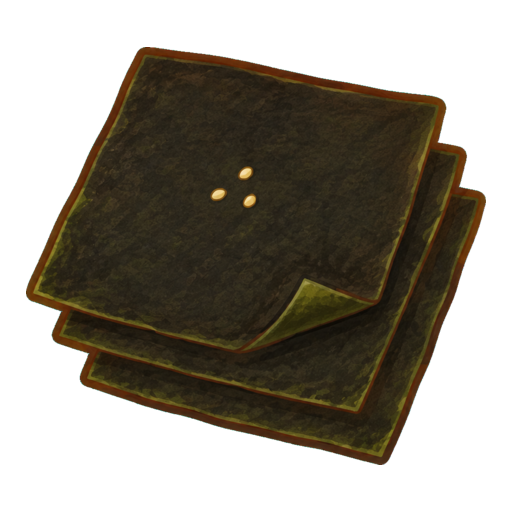
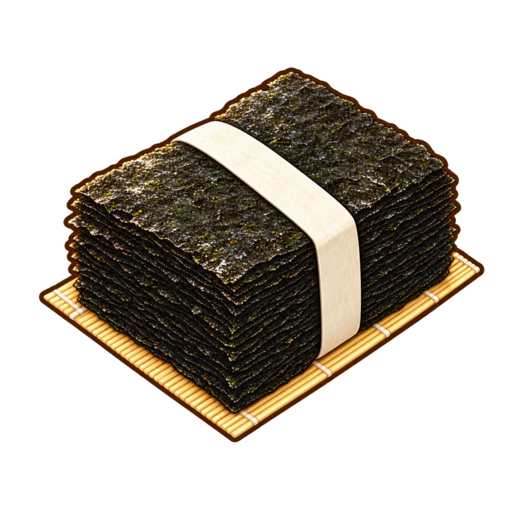
art: remake grilled seaweed and complete fabric items 12-20

diff --git a/docs/art/image-archive.html b/docs/art/image-archive.html
@@ -1813,7 +1813,7 @@
       </div>
       <nav class="head-actions" aria-label="그림 바로가기">
         <a class="head-action" href="#raccoon-types">너구리 A~D</a>
-        <a class="head-action primary" href="#chapter-items">새 물건 91/400</a>
+        <a class="head-action primary" href="#chapter-items">새 물건 100/400</a>
       </nav>
     </header>
 
@@ -1909,7 +1909,7 @@
           <a href="../../art/ch1/04-생선집/02-정어리.png" target="_blank" style="display:block;border:1px solid var(--line);border-radius:14px;padding:12px;text-decoration:none;background:#fff"><span style="display:grid;place-items:center;aspect-ratio:1;background:repeating-conic-gradient(#f4f4f4 0 25%,#fff 0 50%) 0/20px 20px;border-radius:10px"><img src="../../art/ch1/04-생선집/02-정어리.png" alt="정어리" style="width:100%;height:100%;object-fit:contain"></span><strong style="display:block;margin-top:9px">02-정어리</strong><small style="color:var(--muted)">512×512 · 투명 PNG</small></a>
           <a href="../../art/ch1/04-생선집/03-미역.png" target="_blank" style="display:block;border:1px solid var(--line);border-radius:14px;padding:12px;text-decoration:none;background:#fff"><span style="display:grid;place-items:center;aspect-ratio:1;background:repeating-conic-gradient(#f4f4f4 0 25%,#fff 0 50%) 0/20px 20px;border-radius:10px"><img src="../../art/ch1/04-생선집/03-미역.png" alt="미역" style="width:100%;height:100%;object-fit:contain"></span><strong style="display:block;margin-top:9px">03-미역</strong><small style="color:var(--muted)">512×512 · 투명 PNG</small></a>
           <a href="../../art/ch1/04-생선집/04-다시마.png" target="_blank" style="display:block;border:1px solid var(--line);border-radius:14px;padding:12px;text-decoration:none;background:#fff"><span style="display:grid;place-items:center;aspect-ratio:1;background:repeating-conic-gradient(#f4f4f4 0 25%,#fff 0 50%) 0/20px 20px;border-radius:10px"><img src="../../art/ch1/04-생선집/04-다시마.png" alt="다시마" style="width:100%;height:100%;object-fit:contain"></span><strong style="display:block;margin-top:9px">04-다시마</strong><small style="color:var(--muted)">512×512 · 투명 PNG</small></a>
-          <a href="../../art/ch1/04-생선집/05-구운 김.png?v=20260901-2" target="_blank" style="display:block;border:1px solid var(--line);border-radius:14px;padding:12px;text-decoration:none;background:#fff"><span style="display:grid;place-items:center;aspect-ratio:1;background:repeating-conic-gradient(#f4f4f4 0 25%,#fff 0 50%) 0/20px 20px;border-radius:10px"><img src="../../art/ch1/04-생선집/05-구운 김.png?v=20260901-2" alt="구운 김" style="width:100%;height:100%;object-fit:contain"></span><strong style="display:block;margin-top:9px">05-구운 김</strong><small style="color:var(--muted)">512×512 · 투명 PNG</small></a>
+          <a href="../../art/ch1/04-생선집/05-구운 김.png?v=20260901-3" target="_blank" style="display:block;border:1px solid var(--line);border-radius:14px;padding:12px;text-decoration:none;background:#fff"><span style="display:grid;place-items:center;aspect-ratio:1;background:repeating-conic-gradient(#f4f4f4 0 25%,#fff 0 50%) 0/20px 20px;border-radius:10px"><img src="../../art/ch1/04-생선집/05-구운 김.png?v=20260901-3" alt="구운 김" style="width:100%;height:100%;object-fit:contain"></span><strong style="display:block;margin-top:9px">05-구운 김</strong><small style="color:var(--muted)">512×512 · 투명 PNG</small></a>
           <a href="../../art/ch1/04-생선집/06-새우젓.png" target="_blank" style="display:block;border:1px solid var(--line);border-radius:14px;padding:12px;text-decoration:none;background:#fff"><span style="display:grid;place-items:center;aspect-ratio:1;background:repeating-conic-gradient(#f4f4f4 0 25%,#fff 0 50%) 0/20px 20px;border-radius:10px"><img src="../../art/ch1/04-생선집/06-새우젓.png" alt="새우젓" style="width:100%;height:100%;object-fit:contain"></span><strong style="display:block;margin-top:9px">06-새우젓</strong><small style="color:var(--muted)">512×512 · 투명 PNG</small></a>
           <a href="../../art/ch1/04-생선집/07-참조기.png" target="_blank" style="display:block;border:1px solid var(--line);border-radius:14px;padding:12px;text-decoration:none;background:#fff"><span style="display:grid;place-items:center;aspect-ratio:1;background:repeating-conic-gradient(#f4f4f4 0 25%,#fff 0 50%) 0/20px 20px;border-radius:10px"><img src="../../art/ch1/04-생선집/07-참조기.png" alt="참조기" style="width:100%;height:100%;object-fit:contain"></span><strong style="display:block;margin-top:9px">07-참조기</strong><small style="color:var(--muted)">512×512 · 투명 PNG</small></a>
           <a href="../../art/ch1/04-생선집/08-고등어.png" target="_blank" style="display:block;border:1px solid var(--line);border-radius:14px;padding:12px;text-decoration:none;background:#fff"><span style="display:grid;place-items:center;aspect-ratio:1;background:repeating-conic-gradient(#f4f4f4 0 25%,#fff 0 50%) 0/20px 20px;border-radius:10px"><img src="../../art/ch1/04-생선집/08-고등어.png" alt="고등어" style="width:100%;height:100%;object-fit:contain"></span><strong style="display:block;margin-top:9px">08-고등어</strong><small style="color:var(--muted)">512×512 · 투명 PNG</small></a>
@@ -1935,13 +1935,22 @@
           <a href="../../art/ch1/05-옷감집/08-보자기.png" target="_blank" style="display:block;border:1px solid var(--line);border-radius:14px;padding:12px;text-decoration:none;background:#fff"><span style="display:grid;place-items:center;aspect-ratio:1;background:repeating-conic-gradient(#f4f4f4 0 25%,#fff 0 50%) 0/20px 20px;border-radius:10px"><img src="../../art/ch1/05-옷감집/08-보자기.png" alt="보자기" style="width:100%;height:100%;object-fit:contain"></span><strong style="display:block;margin-top:9px">08-보자기</strong><small style="color:var(--muted)">512×512 · 투명 PNG</small></a>
           <a href="../../art/ch1/05-옷감집/09-허리띠.png" target="_blank" style="display:block;border:1px solid var(--line);border-radius:14px;padding:12px;text-decoration:none;background:#fff"><span style="display:grid;place-items:center;aspect-ratio:1;background:repeating-conic-gradient(#f4f4f4 0 25%,#fff 0 50%) 0/20px 20px;border-radius:10px"><img src="../../art/ch1/05-옷감집/09-허리띠.png" alt="허리띠" style="width:100%;height:100%;object-fit:contain"></span><strong style="display:block;margin-top:9px">09-허리띠</strong><small style="color:var(--muted)">512×512 · 투명 PNG</small></a>
           <a href="../../art/ch1/05-옷감집/10-명주.png" target="_blank" style="display:block;border:1px solid var(--line);border-radius:14px;padding:12px;text-decoration:none;background:#fff"><span style="display:grid;place-items:center;aspect-ratio:1;background:repeating-conic-gradient(#f4f4f4 0 25%,#fff 0 50%) 0/20px 20px;border-radius:10px"><img src="../../art/ch1/05-옷감집/10-명주.png" alt="명주" style="width:100%;height:100%;object-fit:contain"></span><strong style="display:block;margin-top:9px">10-명주</strong><small style="color:var(--muted)">512×512 · 투명 PNG</small></a>
-          <a href="../../art/ch1/05-옷감집/11-색동 천.png" target="_blank" style="display:block;border:1px solid var(--line);border-radius:14px;padding:12px;text-decoration:none;background:#fff"><span style="display:grid;place-items:center;aspect-ratio:1;background:repeating-conic-gradient(#f4f4f4 0 25%,#fff 0 50%) 0/20px 20px;border-radius:10px"><img src="../../art/ch1/05-옷감집/11-색동 천.png" alt="색동 천" style="width:100%;height:100%;object-fit:contain"></span><strong style="display:block;margin-top:9px">11-색동 천</strong><small style="color:var(--muted)">512×512 · 투명 PNG</small></a></div>
+          <a href="../../art/ch1/05-옷감집/11-색동 천.png" target="_blank" style="display:block;border:1px solid var(--line);border-radius:14px;padding:12px;text-decoration:none;background:#fff"><span style="display:grid;place-items:center;aspect-ratio:1;background:repeating-conic-gradient(#f4f4f4 0 25%,#fff 0 50%) 0/20px 20px;border-radius:10px"><img src="../../art/ch1/05-옷감집/11-색동 천.png" alt="색동 천" style="width:100%;height:100%;object-fit:contain"></span><strong style="display:block;margin-top:9px">11-색동 천</strong><small style="color:var(--muted)">512×512 · 투명 PNG</small></a>
+          <a href="../../art/ch1/05-옷감집/12-저고리.png?v=20260901" target="_blank" style="display:block;border:1px solid var(--line);border-radius:14px;padding:12px;text-decoration:none;background:#fff"><span style="display:grid;place-items:center;aspect-ratio:1;background:repeating-conic-gradient(#f4f4f4 0 25%,#fff 0 50%) 0/20px 20px;border-radius:10px"><img src="../../art/ch1/05-옷감집/12-저고리.png?v=20260901" alt="저고리" style="width:100%;height:100%;object-fit:contain"></span><strong style="display:block;margin-top:9px">12-저고리</strong><small style="color:var(--muted)">512×512 · 투명 PNG</small></a>
+          <a href="../../art/ch1/05-옷감집/13-치마.png?v=20260901" target="_blank" style="display:block;border:1px solid var(--line);border-radius:14px;padding:12px;text-decoration:none;background:#fff"><span style="display:grid;place-items:center;aspect-ratio:1;background:repeating-conic-gradient(#f4f4f4 0 25%,#fff 0 50%) 0/20px 20px;border-radius:10px"><img src="../../art/ch1/05-옷감집/13-치마.png?v=20260901" alt="치마" style="width:100%;height:100%;object-fit:contain"></span><strong style="display:block;margin-top:9px">13-치마</strong><small style="color:var(--muted)">512×512 · 투명 PNG</small></a>
+          <a href="../../art/ch1/05-옷감집/14-조각보.png?v=20260901" target="_blank" style="display:block;border:1px solid var(--line);border-radius:14px;padding:12px;text-decoration:none;background:#fff"><span style="display:grid;place-items:center;aspect-ratio:1;background:repeating-conic-gradient(#f4f4f4 0 25%,#fff 0 50%) 0/20px 20px;border-radius:10px"><img src="../../art/ch1/05-옷감집/14-조각보.png?v=20260901" alt="조각보" style="width:100%;height:100%;object-fit:contain"></span><strong style="display:block;margin-top:9px">14-조각보</strong><small style="color:var(--muted)">512×512 · 투명 PNG</small></a>
+          <a href="../../art/ch1/05-옷감집/15-비단.png?v=20260901" target="_blank" style="display:block;border:1px solid var(--line);border-radius:14px;padding:12px;text-decoration:none;background:#fff"><span style="display:grid;place-items:center;aspect-ratio:1;background:repeating-conic-gradient(#f4f4f4 0 25%,#fff 0 50%) 0/20px 20px;border-radius:10px"><img src="../../art/ch1/05-옷감집/15-비단.png?v=20260901" alt="비단" style="width:100%;height:100%;object-fit:contain"></span><strong style="display:block;margin-top:9px">15-비단</strong><small style="color:var(--muted)">512×512 · 투명 PNG</small></a>
+          <a href="../../art/ch1/05-옷감집/16-수놓은 천.png?v=20260901" target="_blank" style="display:block;border:1px solid var(--line);border-radius:14px;padding:12px;text-decoration:none;background:#fff"><span style="display:grid;place-items:center;aspect-ratio:1;background:repeating-conic-gradient(#f4f4f4 0 25%,#fff 0 50%) 0/20px 20px;border-radius:10px"><img src="../../art/ch1/05-옷감집/16-수놓은 천.png?v=20260901" alt="수놓은 천" style="width:100%;height:100%;object-fit:contain"></span><strong style="display:block;margin-top:9px">16-수놓은 천</strong><small style="color:var(--muted)">512×512 · 투명 PNG</small></a>
+          <a href="../../art/ch1/05-옷감집/17-두루마기.png?v=20260901" target="_blank" style="display:block;border:1px solid var(--line);border-radius:14px;padding:12px;text-decoration:none;background:#fff"><span style="display:grid;place-items:center;aspect-ratio:1;background:repeating-conic-gradient(#f4f4f4 0 25%,#fff 0 50%) 0/20px 20px;border-radius:10px"><img src="../../art/ch1/05-옷감집/17-두루마기.png?v=20260901" alt="두루마기" style="width:100%;height:100%;object-fit:contain"></span><strong style="display:block;margin-top:9px">17-두루마기</strong><small style="color:var(--muted)">512×512 · 투명 PNG</small></a>
+          <a href="../../art/ch1/05-옷감집/18-도포.png?v=20260901" target="_blank" style="display:block;border:1px solid var(--line);border-radius:14px;padding:12px;text-decoration:none;background:#fff"><span style="display:grid;place-items:center;aspect-ratio:1;background:repeating-conic-gradient(#f4f4f4 0 25%,#fff 0 50%) 0/20px 20px;border-radius:10px"><img src="../../art/ch1/05-옷감집/18-도포.png?v=20260901" alt="도포" style="width:100%;height:100%;object-fit:contain"></span><strong style="display:block;margin-top:9px">18-도포</strong><small style="color:var(--muted)">512×512 · 투명 PNG</small></a>
+          <a href="../../art/ch1/05-옷감집/19-금박 천.png?v=20260901" target="_blank" style="display:block;border:1px solid var(--line);border-radius:14px;padding:12px;text-decoration:none;background:#fff"><span style="display:grid;place-items:center;aspect-ratio:1;background:repeating-conic-gradient(#f4f4f4 0 25%,#fff 0 50%) 0/20px 20px;border-radius:10px"><img src="../../art/ch1/05-옷감집/19-금박 천.png?v=20260901" alt="금박 천" style="width:100%;height:100%;object-fit:contain"></span><strong style="display:block;margin-top:9px">19-금박 천</strong><small style="color:var(--muted)">512×512 · 투명 PNG</small></a>
+          <a href="../../art/ch1/05-옷감집/20-혼례복.png?v=20260901" target="_blank" style="display:block;border:1px solid var(--line);border-radius:14px;padding:12px;text-decoration:none;background:#fff"><span style="display:grid;place-items:center;aspect-ratio:1;background:repeating-conic-gradient(#f4f4f4 0 25%,#fff 0 50%) 0/20px 20px;border-radius:10px"><img src="../../art/ch1/05-옷감집/20-혼례복.png?v=20260901" alt="혼례복" style="width:100%;height:100%;object-fit:contain"></span><strong style="display:block;margin-top:9px">20-혼례복</strong><small style="color:var(--muted)">512×512 · 투명 PNG</small></a></div>
       <p style="margin:18px 0 0"><a href="https://github.com/nonexpertchassi-creator/raccoon-hollow/tree/codex/ch1-item-production-20260831/art/ch1" target="_blank">GitHub에서 전체 폴더 열기</a></p>
     </section>
 
     <footer class="foot">
       <span>라쿤마켓 · 그림 라이브러리</span>
-      <code>너구리 A~D · 새 물건 91 / 400 · updated 2026-09-01</code>
+      <code>너구리 A~D · 새 물건 100 / 400 · updated 2026-09-01</code>
     </footer>
   </main>
 </body>
